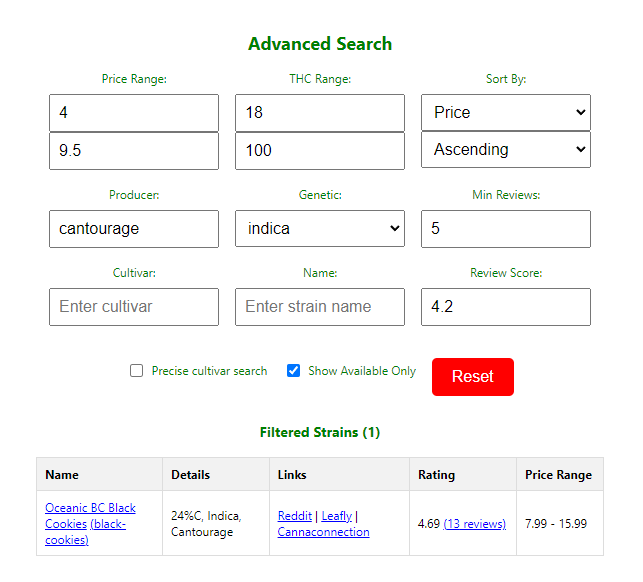
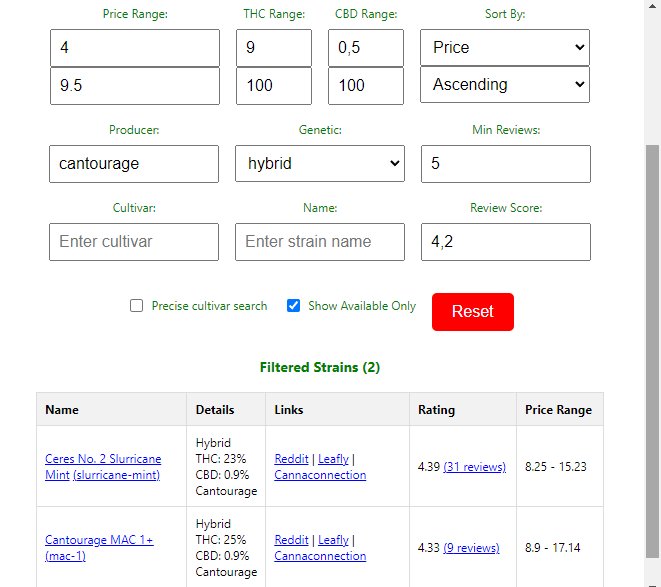
add cbd range filter and sorting option

diff --git a/src/components/search/FilterGroup.svelte b/src/components/search/FilterGroup.svelte
@@ -7,6 +7,8 @@
   let priceMax = "";
   let thcMin = 0;
   let thcMax = 100;
+  let cbdMin = 0;
+  let cbdMax = 100;
   let ratingMin = 0;
   let scoreCountMin = 0;
   let sortOption = "";
@@ -26,6 +28,8 @@
       priceMax,
       thcMin,
       thcMax,
+      cbdMin,
+      cbdMax,
       ratingMin,
       scoreCountMin,
       sortOption,
@@ -47,6 +51,8 @@
       priceMax = state.priceMax;
       thcMin = state.thcMin;
       thcMax = state.thcMax;
+      cbdMin = state.cbdMin;
+      cbdMax = state.cbdMax;
       ratingMin = state.ratingMin;
       scoreCountMin = state.scoreCountMin;
       sortOption = state.sortOption;
@@ -65,7 +71,8 @@
     priceMax = "";
     thcMin = 0;
     thcMax = 100;
-    ratingMin = 0;
+    cbdMin = 0;
+    cbdMax = 100;
     ratingMin = 0;
     scoreCountMin = 0;
     sortOption = "";
@@ -87,6 +94,8 @@
       priceMax,
       thcMin,
       thcMax,
+      cbdMin,
+      cbdMax,
       ratingMin,
       scoreCountMin,
       sortOption,
@@ -161,6 +170,7 @@
       max="100"
       placeholder="Min THC"
       on:input={handleFilterChange}
+      class="thcCbdRangeFilter"
     />
     <input
       type="number"
@@ -169,6 +179,28 @@
       max="100"
       placeholder="Max THC"
       on:input={handleFilterChange}
+      class="thcCbdRangeFilter"
+    />
+  </div>
+  <div class="filter-item">
+    <label>CBD Range:</label>
+    <input
+      type="number"
+      bind:value={cbdMin}
+      min="0"
+      max="100"
+      placeholder="Min CBD"
+      on:input={handleFilterChange}
+      class="thcCbdRangeFilter"
+    />
+    <input
+      type="number"
+      bind:value={cbdMax}
+      min="0"
+      max="100"
+      placeholder="Max CBD"
+      on:input={handleFilterChange}
+      class="thcCbdRangeFilter"
     />
   </div>
   <div class="filter-item">
@@ -179,6 +211,7 @@
       <option value="price">Price</option>
       <option value="rating">Rating</option>
       <option value="thc">THC</option>
+      <option value="cbd">CBD</option>
       <option value="reviewCount">Review Count</option>
       <option value="published_at">Published Date</option>
     </select>
@@ -329,6 +362,9 @@
     padding: 0.5rem 1rem;
     font-size: 1rem;
     cursor: pointer;
+  }
+  .thcCbdRangeFilter {
+    width: 56px;
   }
   .reset-button {
     background-color: red;

diff --git a/src/components/search/AdvancedSearch.svelte b/src/components/search/AdvancedSearch.svelte
@@ -10,6 +10,8 @@
   let priceMax = '';
   let thcMin = 0;
   let thcMax = 100;
+  let cbdMin = 0;
+  let cbdMax = 100;
   let ratingMin = 0;
   let scoreCountMin = 0;
   let sortOption = '';
@@ -27,6 +29,8 @@
       priceMax: maxPrice,
       thcMin: minThc,
       thcMax: maxThc,
+      cbdMin: minCbd,
+      cbdMax: maxCbd,
       ratingMin: minRating,
       scoreCountMin: minScoreCount,
       sortOption: sortBy,
@@ -43,6 +47,8 @@
     priceMax = maxPrice;
     thcMin = minThc;
     thcMax = maxThc;
+    cbdMin = minCbd;
+    cbdMax = maxCbd;
     ratingMin = minRating;
     scoreCountMin = minScoreCount;
     sortOption = sortBy;
@@ -61,6 +67,7 @@
     filteredStrains = cannabisStrains.filter(strain => {
       const isPriceInRange = priceMax === '' ? strain.min_price >= priceMin : (strain.min_price >= priceMin && strain.min_price <= priceMax);
       const isThcInRange = strain.thc >= thcMin && strain.thc <= thcMax;
+      const isCbdInRange = strain.cbd >= cbdMin && strain.cbd <= cbdMax;
       const isRatingInRange = (strain.ratings_score ?? 0) >= ratingMin && (strain.ratings_count ?? 0) >= scoreCountMin;
       const isAvailable = showAvailableOnly ? strain.availibility === 1 : true;
       const isStrainMatch = searchStrain === '' ? true : strain.name.toLowerCase().includes(searchStrain.toLowerCase());
@@ -70,7 +77,7 @@
       const isProducerMatch = searchProducer === '' ? true : (strain.producer_name ?? '').toLowerCase().includes(searchProducer.toLowerCase());
       const isGeneticMatch = selectedGenetic === '' ? true : (strain.genetic ?? '').toLowerCase() === selectedGenetic.toLowerCase();
 
-      return isPriceInRange && isThcInRange && isRatingInRange && isAvailable && isStrainMatch && isCultivarMatch && isProducerMatch && isGeneticMatch;
+      return isPriceInRange && isThcInRange && isCbdInRange && isRatingInRange && isAvailable && isStrainMatch && isCultivarMatch && isProducerMatch && isGeneticMatch;
     }).sort((a, b) => {
       let comparison = 0;
       switch (sortOption) {
@@ -85,6 +92,9 @@
           break;
         case 'thc':
           comparison = b.thc - a.thc;
+          break;
+        case 'cbd':
+          comparison = b.cbd - a.cbd;
           break;
         case 'reviewCount':
           comparison = b.ratings_count - a.ratings_count;

diff --git a/src/components/search/StrainTable.svelte b/src/components/search/StrainTable.svelte
@@ -69,8 +69,15 @@
           ({formatStrainName(strain.strain_name)})
         </a>
       </td>
-      <td>
-        {strain.thc}%, {strain.genetic}, {strain.producer_name}
+      <td id="columnDetails">
+        {strain.genetic}
+        <div>
+          THC: {strain.thc}%
+        </div>
+        <div>
+          CBD: {strain.cbd}%
+        </div>
+        {strain.producer_name}
       </td>
       <td>
         <a class="clickable" href={"https://www.google.de/search?q=" + formatStrainName(strain.strain_name) + "+site%3Areddit.com%2Fr%2FCannabis_Apotheken+OR+site%3Areddit.com%2Fr%2Fgermantrees+OR+site%3Areddit.com%2Fr%2FDeutschlandCannabis"} on:click={(e) => { e.preventDefault(); openInCurrentTab("https://www.google.de/search?q=" + formatStrainName(strain.strain_name) + "+site%3Areddit.com%2Fr%2FCannabis_Apotheken+OR+site%3Areddit.com%2Fr%2Fgermantrees"); }}>Reddit</a> |
@@ -123,6 +130,10 @@ th {
 #columnPriceRange {
   width: 70px;
 }
+#columnDetails {
+  width: 100px;
+}
+
 .clickable {
   cursor: pointer;
   color: blue;
